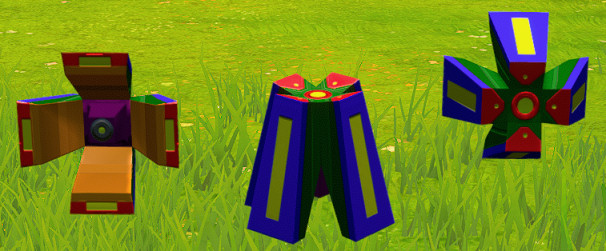
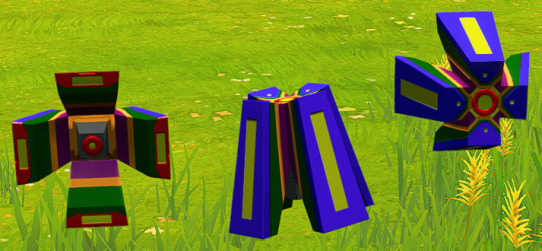
Far improved template

diff --git a/DSPColorDrones.cs b/DSPColorDrones.cs
@@ -30,7 +30,7 @@ namespace DSPColorDrones
     {
         public const string pluginGuid = "greyhak.dysonsphereprogram.colordrones";
         public const string pluginName = "DSP Color Drones";
-        public const string pluginVersion = "1.0.0";
+        public const string pluginVersion = "1.0.1";
         new internal static ManualLogSource Logger;
         //new internal static BepInEx.Configuration.ConfigFile Config;
         Harmony harmony;
@@ -44,16 +44,25 @@ namespace DSPColorDrones
             harmony.PatchAll(typeof(DSPColorDrones));
         }
 
+        [HarmonyPostfix, HarmonyPatch(typeof(GameMain), "Resume")]
+        public static void GameMain_Resume_Postfix()
+        {
+            MechaDroneLogic_ReloadStates_Postfix();
+        }
+
         [HarmonyPostfix, HarmonyPatch(typeof(MechaDroneLogic), "ReloadStates")]
         public static void MechaDroneLogic_ReloadStates_Postfix()
         {
             Texture2D newTexture = new Texture2D(512, 512);
+
+            // Original GameMain.mainPlayer.mecha.droneRenderer.mat_0.color = (0.175, 0.461, 1.000, 1.000) = 45, 118, 255
 
             string filePath = $"BepInEx/config/{pluginGuid}.png";
             if (System.IO.File.Exists(filePath))
             {
                 byte[] fileData = System.IO.File.ReadAllBytes(filePath);
                 newTexture.LoadImage(fileData);
+                Logger.LogInfo($"Successfully loaded drone skin {filePath}");
 
                 for (int x = 0; x < newTexture.width; x++)
                 {
@@ -69,6 +78,11 @@ namespace DSPColorDrones
                 // Changing this changes all drones simultaneously.
                 // The change takes effect when MechaDroneRenderer.Draw is called which is called constantly.
                 GameMain.mainPlayer.mecha.droneRenderer.mat_0.mainTexture = newTexture;
+            }
+            else
+            {
+                string cwd = System.IO.Directory.GetCurrentDirectory();
+                Logger.LogWarning($"Unable to find drone skin at {cwd}/{filePath}");
             }
         }
     }

diff --git a/Properties/AssemblyInfo.cs b/Properties/AssemblyInfo.cs
@@ -41,5 +41,5 @@ using System.Runtime.InteropServices;
 // You can specify all the values or you can default the Build and Revision Numbers
 // by using the '*' as shown below:
 // [assembly: AssemblyVersion("1.0.*")]
-[assembly: AssemblyVersion("1.0.0")]
-[assembly: AssemblyFileVersion("1.0.0")]
+[assembly: AssemblyVersion("1.0.1")]
+[assembly: AssemblyFileVersion("1.0.1")]

diff --git a/README.md b/README.md
@@ -2,7 +2,7 @@
 
 **DSP Color Drones** is a mod for the Unity game Dyson Sphere Program developed by Youthcat Studio and published by Gamera Game.  The game is available on [here](https://store.steampowered.com/app/1366540/Dyson_Sphere_Program/).
 
-Color your drones.  Create and share your own designs.
+Color your drones.  Create and share your own skins.
 
 A template is provided with the mod in `BepInEx/config/greyhak.dysonsphereprogram.colordrones.png`.
 
@@ -11,6 +11,8 @@ A template is provided with the mod in `BepInEx/config/greyhak.dysonsphereprogra
 Pre-built configurations are also available on [GitHub](https://github.com/GreyHak/dsp-color-drones/tree/main/config).
 
 <img alt="Aqua Example" src="https://raw.githubusercontent.com/GreyHak/dsp-color-drones/main/config/greyhak.dysonsphereprogram.colordrones_aqua.png" width="128" height="128"/> <img alt="Bat Example" src="https://raw.githubusercontent.com/GreyHak/dsp-color-drones/main/config/greyhak.dysonsphereprogram.colordrones_bat.png" width="128" height="128"/> <img alt="Super Example" src="https://raw.githubusercontent.com/GreyHak/dsp-color-drones/main/config/greyhak.dysonsphereprogram.colordrones_super.png" width="128" height="128"/> <img alt="Wonder Example" src="https://raw.githubusercontent.com/GreyHak/dsp-color-drones/main/config/greyhak.dysonsphereprogram.colordrones_wonder.png" width="128" height="128"/>
+
+The Windows 10 full default path, whether installed manually or through r2modman, is `C:\Program Files (x86)\Steam\steamapps\common\Dyson Sphere Program\BepInEx\config\greyhak.dysonsphereprogram.colordrones.png`.  The mod looks specifically in the `BepInEx/config` folder.
 
 If you like this mod, please click the thumbs up at the [top of the page](https://dsp.thunderstore.io/package/GreyHak/DSP_Color_Drones/) (next to the Total rating).  That would be a nice thank you for me, and help other people to find a mod you enjoy.
 
@@ -27,5 +29,10 @@ This mod can also be installed using ebkr's [r2modman](https://dsp.thunderstore.
 The source code for this mod is available for download, review and forking on GitHub [here](https://github.com/GreyHak/dsp-color-drones) under the BSD 3 clause license.
 
 ## Change Log
+### v1.0.1
+ - Improved template.
+ - Reload skin on unpause.
+ - Added log entries when skin is successfully loaded or not found.
+ - README cleanup.
 ### v1.0.0
  - Initial release.

diff --git a/README-Thunderstore.md b/README-Thunderstore.md
@@ -2,13 +2,15 @@
 
 **DSP Color Drones** is a mod for the Unity game Dyson Sphere Program developed by Youthcat Studio and published by Gamera Game.  The game is available on [here](https://store.steampowered.com/app/1366540/Dyson_Sphere_Program/).
 
-Color your drones.  Create and share your own designs.
+Color your drones.  Create and share your own skins.
 
 A template is provided with the mod in `BepInEx/config/greyhak.dysonsphereprogram.colordrones.png`.
 
 ![Flag Template Appearance In-Game](https://raw.githubusercontent.com/GreyHak/dsp-color-drones/main/TemplateAppearance.jpg)
 
 Pre-built configurations are also available on [GitHub](https://github.com/GreyHak/dsp-color-drones/tree/main/config).
+
+The Windows 10 full default path, whether installed manually or through r2modman, is `C:\Program Files (x86)\Steam\steamapps\common\Dyson Sphere Program\BepInEx\config\greyhak.dysonsphereprogram.colordrones.png`.  The mod looks specifically in the `BepInEx/config` folder.
 
 If you like this mod, please click the thumbs up at the [top of the page](https://dsp.thunderstore.io/package/GreyHak/DSP_Color_Drones/) (next to the Total rating).  That would be a nice thank you for me, and help other people to find a mod you enjoy.
 
@@ -25,5 +27,10 @@ This mod can also be installed using ebkr's [r2modman](https://dsp.thunderstore.
 The source code for this mod is available for download, review and forking on GitHub [here](https://github.com/GreyHak/dsp-color-drones) under the BSD 3 clause license.
 
 ## Change Log
+### v1.0.1
+ - Improved template.
+ - Reload skin on unpause.
+ - Added log entries when skin is successfully loaded or not found.
+ - README cleanup.
 ### v1.0.0
  - Initial release.
